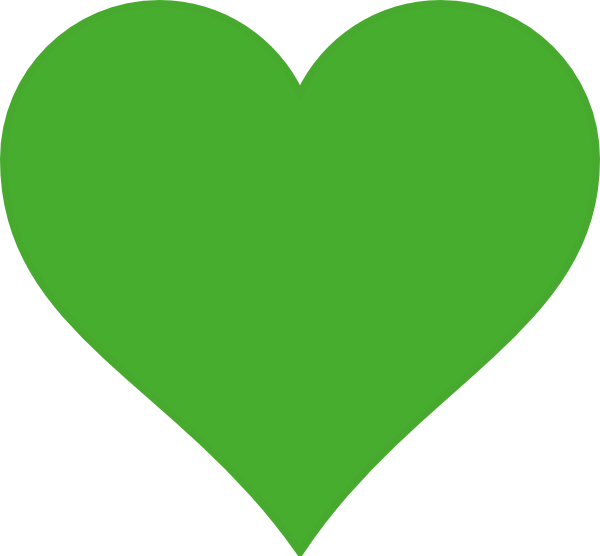
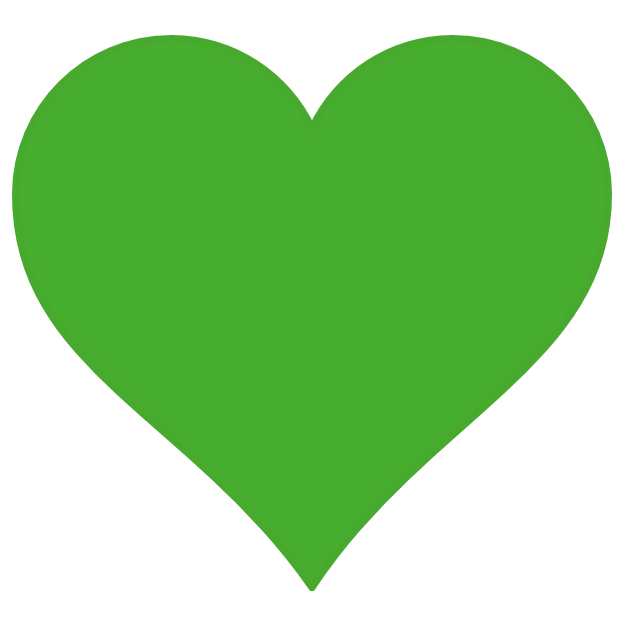
updated movies page to use pngs

Changed region(s): [[0.0, 0.0, 1.0, 1.0]]

diff --git a/src/main/resources/templates/movies.html b/src/main/resources/templates/movies.html
@@ -17,7 +17,12 @@ xmlns:th="http://www.thymeleaf.org">
             <i class="fa fa-cog" aria-hidden="true"></i>
             <i class="fa fa-comments" aria-hidden="true"></i>
             <div class="tlogo">
-                <img src="public\playground_assets\SunBreakers_Logo.png" alt="Tinder Logo" title="Tinder Logo" />
+                <a href="index.html">
+                    <img src="public\playground_assets\SunBreakers_Logo.png"
+                    alt="Tinder Logo"
+                    title="SunBreakers Logo"
+                    height="40" />
+                </a>
             </div>
         </div>
         <div class="tbgwrap">
@@ -42,10 +47,18 @@ xmlns:th="http://www.thymeleaf.org">
             </div>
             <div class="tcontrols">
                 <a href="/movies?name=disliked">
-                    <img src="public\playground_assets\red-x.png">
+                    <img src="public\playground_assets\red-x.png"
+                    alt="Dislike Button"
+                    width="90" 
+                    height="90"
+                    style="margin:20px;">
                 </a>
                 <a href="/movies?name=liked">
-                    <img src="public\playground_assets\green-heart.png">
+                    <img src="public\playground_assets\green-heart.png"
+                    alt="Like Button"
+                    width="100" 
+                    height="100"
+                    style="margin:20px;">
                 </a>
                 <!-- <input type="button"  onclick="location.href='/movies?name=disliked'" value="Dislike" >
                 <input type="button"  onclick="location.href='/movies?name=liked'" value="Like" > -->
